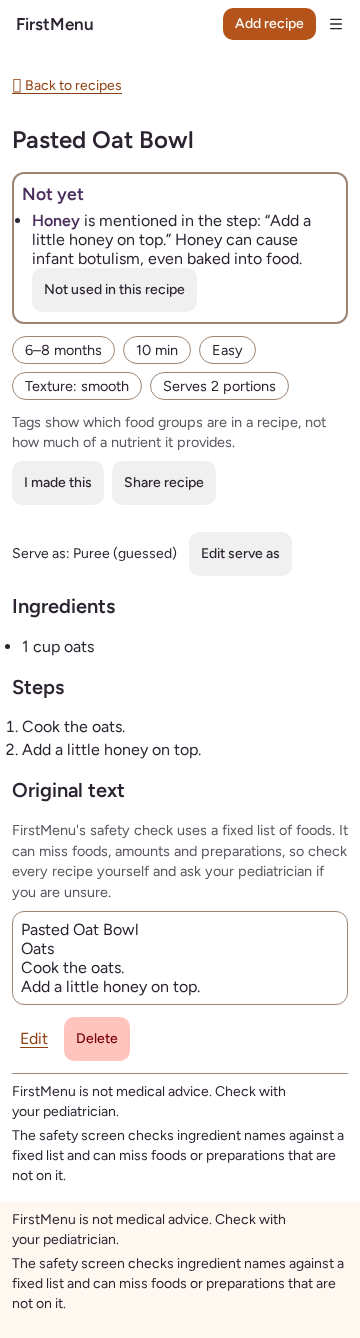
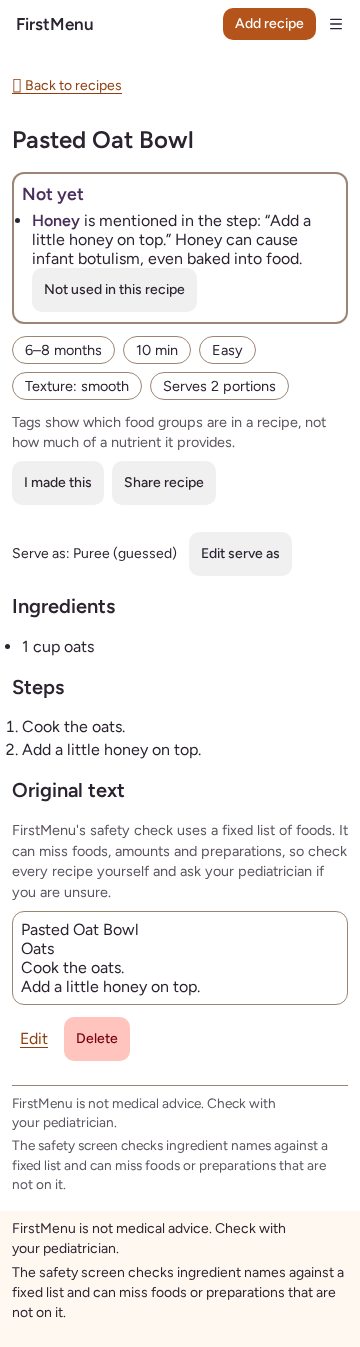
fix: recipe page review follow-up (44px serve-as rows, quieter footer reaches the text, merged CSS, stronger tests)

diff --git a/src/ui/pages/RecipePageDesign.test.tsx b/src/ui/pages/RecipePageDesign.test.tsx
@@ -87,10 +87,13 @@ describe('recipe page design', () => {
     renderAt('/recipes/b-carrots-and-apples', seed());
     const facts = screen.getByRole('list', { name: 'Recipe facts' });
     const items = within(facts).getAllByRole('listitem').map((li) => li.textContent);
-    expect(items).toHaveLength(5);
-    expect(items[0]).toMatch(/months|years/);
-    expect(items[3]).toMatch(/^Texture: /);
-    expect(items[4]).toMatch(/^Serves \d+ portions?$/);
+    expect(items).toEqual([
+      expect.stringMatching(/^(6|9|12|2).*(months|years)/),
+      expect.stringMatching(/^(about )?\d+ min$|^\d+(\.\d+)? ?h/),
+      expect.stringMatching(/^(Easy|Medium|Involved|Hard)$/),
+      expect.stringMatching(/^Texture: .+/),
+      expect.stringMatching(/^Serves \d+ portions?$/),
+    ]);
     const h1 = screen.getByRole('heading', { level: 1 });
     expect(before(h1, facts)).toBe(true);
   });
@@ -108,10 +111,45 @@ describe('recipe page design', () => {
     expect(screen.getByRole('link', { name: /Back to recipes/ })).toHaveClass('fm-link');
   });
 
-  it('keeps both disclaimers (page footer and shell footer) with unchanged text', () => {
+  it('shows "Time not given" in the fact row of a simple idea', () => {
+    renderAt('/recipes/b-idea-mashed-banana', seed());
+    const items = within(screen.getByRole('list', { name: 'Recipe facts' }))
+      .getAllByRole('listitem')
+      .map((li) => li.textContent);
+    expect(items).toEqual([
+      expect.stringMatching(/months|years/),
+      'Time not given',
+      expect.stringMatching(/^[A-Z][a-z]+$/),
+      expect.stringMatching(/^Texture: /),
+      'Serves 1 portion',
+    ]);
+  });
+
+  it('keeps both disclaimers, the page one last in the article and the shell copy after it', () => {
     renderAt('/recipes/b-carrots-and-apples', seed());
-    expect(screen.getAllByText(NOT_MEDICAL_ADVICE)).toHaveLength(2);
-    expect(screen.getAllByText(SCREEN_LIMITS)).toHaveLength(2);
+    const notMedical = screen.getAllByText(NOT_MEDICAL_ADVICE);
+    const limits = screen.getAllByText(SCREEN_LIMITS);
+    expect(notMedical).toHaveLength(2);
+    expect(limits).toHaveLength(2);
+    const article = screen.getByRole('article');
+    const [pageNote, shellNote] = notMedical;
+    const [pageLimits, shellLimits] = limits;
+    expect(article).toContainElement(pageNote);
+    expect(article).toContainElement(pageLimits);
+    expect(article).not.toContainElement(shellNote);
+    expect(article).not.toContainElement(shellLimits);
+    // Page footer is the last child of the article, and its text is the last content.
+    const footer = article.lastElementChild as HTMLElement;
+    expect(footer.tagName).toBe('FOOTER');
+    expect(footer).toContainElement(pageNote);
+    expect(footer).toContainElement(pageLimits);
+    expect(before(pageNote, pageLimits)).toBe(true);
+    // Everything else in the article comes before the page footer.
+    expect(before(screen.getByRole('heading', { name: 'Steps' }), pageNote)).toBe(true);
+    // The shell copy follows the article, in the same order.
+    expect(before(article, shellNote)).toBe(true);
+    expect(before(pageLimits, shellNote)).toBe(true);
+    expect(before(shellNote, shellLimits)).toBe(true);
   });
 
   it('has no axe violations for a ghosted recipe and a simple idea', async () => {

diff --git a/src/ui/pages/RecipeDetail.module.css b/src/ui/pages/RecipeDetail.module.css
@@ -19,14 +19,6 @@
   min-height: 44px;
 }
 
-.meta {
-  display: flex;
-  flex-wrap: wrap;
-  gap: var(--space);
-  color: var(--fm-color-muted);
-  margin: 0 0 var(--space);
-}
-
 /* Fact row under the title (stage, time, effort, texture, servings). */
 .facts {
   display: flex;
@@ -175,11 +167,20 @@
 }
 
 
-/* Footer disclaimer -------------------------------------------------------- */
+/* Footer disclaimer: repeats the shell footer; same text, quieter. ----------- */
 .footer {
-  margin-top: calc(var(--space) * 2);
+  margin-top: calc(var(--space) * 3);
   border-top: 1px solid var(--fm-color-border);
   padding-top: var(--space);
+  font-size: 0.85rem;
+  color: var(--fm-color-muted);
+}
+
+/* The shared <Disclaimer/> paragraphs set their own size and colour, so the
+   quieter style has to reach them directly. */
+.footer p {
+  font-size: inherit;
+  color: inherit;
 }
 
 .serveAs {
@@ -210,6 +211,24 @@
   display: flex;
   flex-wrap: wrap;
   gap: 8px 16px;
+}
+
+/* Checkbox rows: the whole row (box and label) is the 44 px target. */
+.serveAsList :global(.astryx-checkbox-input) {
+  min-height: 44px;
+  align-items: center;
+}
+
+.serveAsList :global(.astryx-checkbox-input) > * {
+  align-self: stretch;
+  display: flex;
+  align-items: center;
+}
+
+.serveAsList label {
+  min-height: 44px;
+  display: flex;
+  align-items: center;
 }
 
 .serveAsActions {
@@ -277,7 +296,7 @@
   flex-wrap: wrap;
   gap: var(--space);
   align-items: flex-start;
-  margin: calc(var(--space) * 1.5) 0;
+  margin: 0 0 var(--space);
 }
 
 /* 44 px targets on this page (buttons, source links). */
@@ -290,17 +309,6 @@
   display: inline-flex;
   align-items: center;
   min-height: 44px;
-}
-
-.historyActions {
-  margin: 0 0 var(--space);
-}
-
-/* Page footer disclaimer repeats the shell footer; same text, quieter. */
-.footer {
-  margin-top: var(--space);
-  font-size: 0.85rem;
-  color: var(--fm-color-muted);
 }
 
 .page li,

diff --git a/src/ui/pages/SharedRecipeView.module.css b/src/ui/pages/SharedRecipeView.module.css
@@ -26,14 +26,6 @@
   font-weight: 600;
 }
 
-.meta {
-  display: flex;
-  flex-wrap: wrap;
-  gap: var(--space);
-  margin: 0 0 var(--space);
-  color: var(--fm-color-muted);
-}
-
 .list {
   margin: 0;
   padding-left: calc(var(--space) * 1.5);
